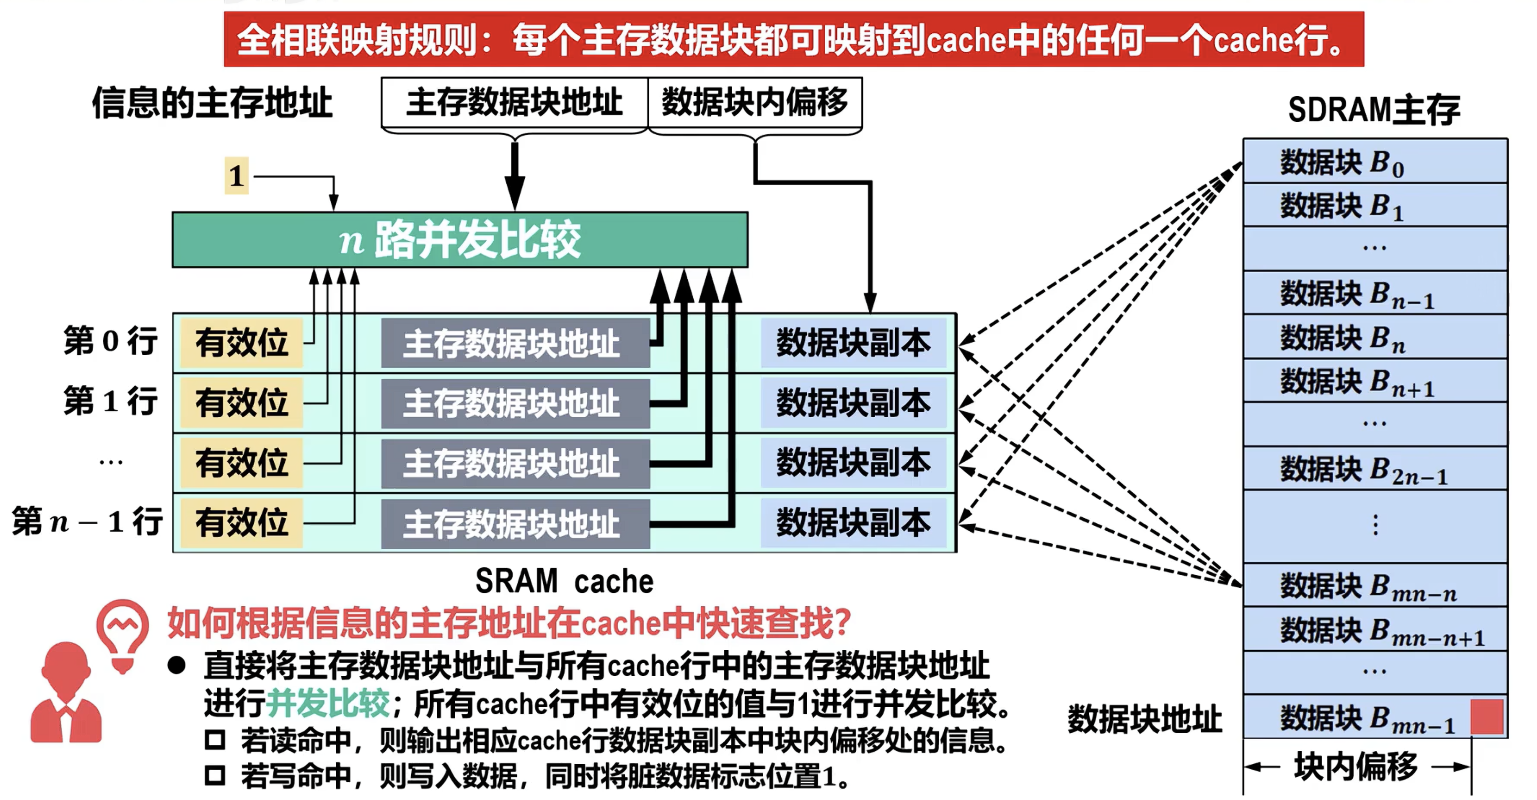
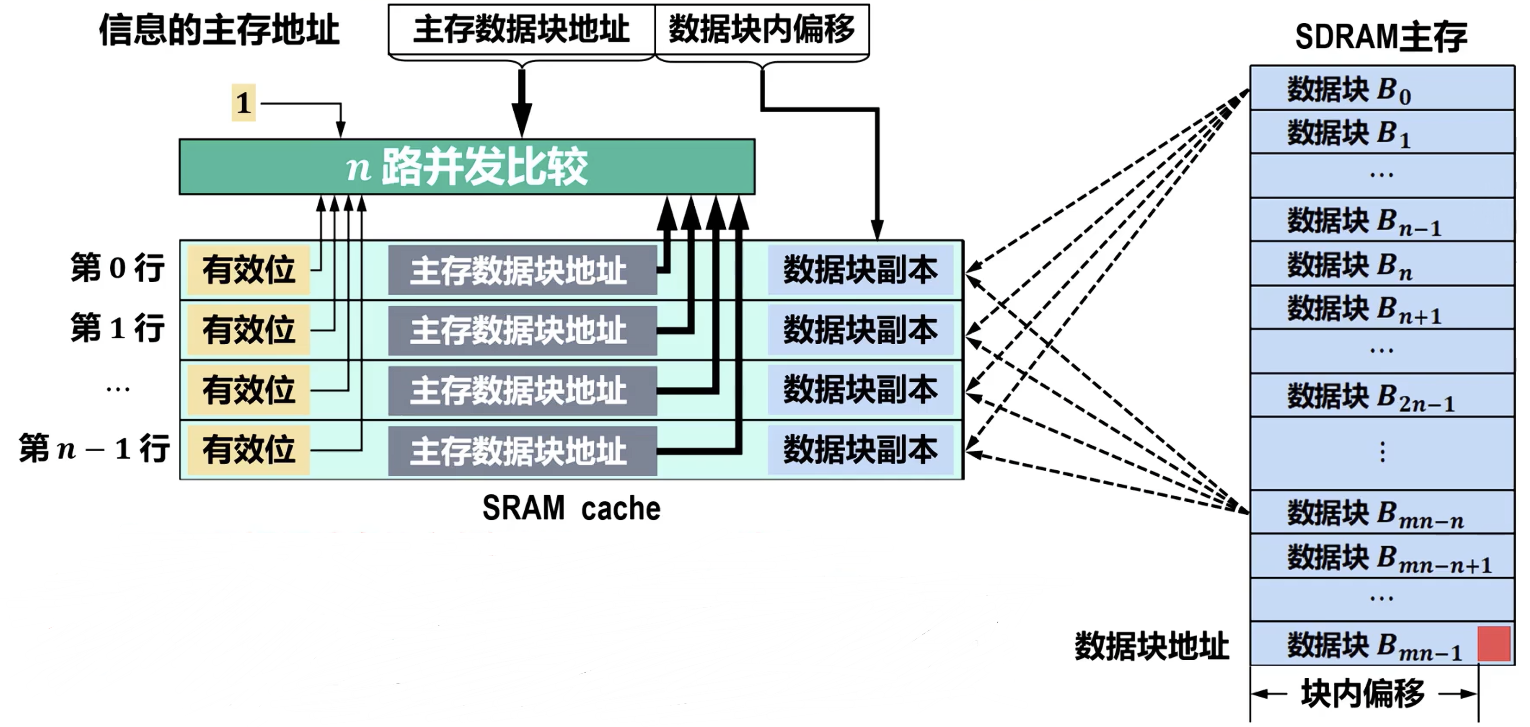
upd10.11

diff --git a/_posts/2025-10-8-408Arch.md b/_posts/2025-10-8-408Arch.md
@@ -220,14 +220,14 @@ _常见的多通道技术就是单体多字_
 
 - 高位多体交叉（顺序编址）
 
-![高位多体交叉](高位多体交叉.png){: .w-50}
+![高位多体交叉](高位多体交叉.png){: .w-75}
 _地址又称 体号+体内地址_
 
 高位多体的地址是连续的，本质上仍是顺序存储，同一个数据分布在同一个存储器内，没有实现并行工作，无法提高效率
 
 - 低位多体交叉（交叉编址）
 
-![低位多体交叉](低位多体交叉.png){: .w-50}
+![低位多体交叉](低位多体交叉.png){: .w-75}
 _地址又称 体内地址+体号_
 
 为提高顺序访问时存储模块的并行性，各存储模块均有独立的地址寄存器、数据寄存器和读写控制电路
@@ -247,7 +247,7 @@ _地址又称 体内地址+体号_
 ### Cache：概念
 
 ![cache分类](cache分类.png)
-_存在速度差异的地方都可以用到cache技术_
+_存在速度差异的地方都可以用到cache理念_
 
 #### ：程序局部性
 
@@ -302,19 +302,77 @@ cache被划分成等长的数据块，又称数据行，每行包含若干数据
 
 - 随机替换
 
-- 先进先出LIFO
+随机选择cache行替换
+
+硬件实现简单，速度最快
+
+没有考虑局部性特点，替换掉的数据可能又要重新载入，降低命中率和效率
+
+> 但随着cache容量增大，随机替换的负面影响会减小，实践中不弱于LFU和LRU
+
+- 先进先出FIFO
+
+替换最先载入的cache行
+
+需要记录每个cache行载入数据的时刻（时间戳）
+
+硬件实现较为简单
+
+没有考虑局部性，cache命中率不高
 
 - 最不常用LFU
 
+替换命中访问次数最少的cache行
+
+实现：为每个cache行设置一个淘汰计数器，载入新数据时该行清零，每命中访问一次，该行计数+1。需要进行替换时，替换计数最小的行
+
+每行都有计数器，硬件成本高
+
+不能较好反映近期的访问情况
+
 - 近期最少用LRU
+
+替换近期最少被命中的cache行
+
+> LRU实现：
+- 为每个cache行设置一个淘汰计数器
+- cache行被访问时，该行计数清零，其余*计数不为空*的行+1
+- 如果没有计数为空的行，替换计数最大的cache行
+{: .prompt-info}
+
+每行都有计数器，硬件成本高
+
+最好的反映了局部性
 
 #### ：写入策略
 
-- 写回法Write-Back
+CPU尝试写入某个主存地址时，若cache命中，则修改cache中的内容，导致cache与主存内容不一致，产生脏数据；因此有两种写入策略：写穿法和写回法
 
 - 写穿法Write-Through
 
+写cache**命中**时，同时写入cache和主存中的数据块
+
+因为主存访问很低，相比写回法，大大增加了写操作的开销，但保证了数据一致性，不产生脏数据
+
+- 写回法Write-Back
+
+写cache命中时，只修改cache行，而不写入主存；只有当cache行被替换时，才将脏数据写回主存
+
+需要为每个cache行配置一个dirty bit
+
+降低了写主存的次数，但存在安全隐患，导致DMA操作中出现数据不一致的问题（因为DMA传输不经过CPU，而是直达内存）
+
+> 对于目前的*多核CPU*和DMA外设，无论是否采用写穿法，都无法保证数据一致性，需要其他的同步机制
+
+CPU尝试写入某个主存地址时，若cache**未命中**，则有两种写入策略：
+
+- 写分配法：写入主存，然后写入cache，通常搭配写回法
+
+- 非写分配法：只将数据写入主存；通常搭配写穿法
+
 ### Cache：与主存的地址映射
+
+为实现对cache的访问，需要设计适当的地址映射方法，其中主要涉及到硬件成本，时间开销和命中率（工作效率）的取舍；关联度越低，命中率越低，硬件开销越小，额外空间开销越少
 
 #### ：直接映射
 
@@ -360,7 +418,57 @@ cache内直接存有主存地址\
 
 由于组相联仅需K路并发比较，硬件开销比全相联小很多，但实践中性能接近全相联
 
-### 虚拟内存
+### 虚拟存储：概念，页表
+
+> 虚拟存储是逻辑上将内存和外存合二为一，统一编址（虚拟地址VA），内存作为外存的缓存，因此与CPU中的cache类似，需要考虑交换数据块大小问题、地址映射问题、替换问题、一致性问题\
+针对这些问题，有页式、段式、段页式虚拟存储器的划分
+
+内存和外存间进行交换的数据单位为页，在虚拟地址空间中称为虚拟页、逻辑页，在主存地址空间中称为物理页、页框、页帧
+
+#### ：请求分页
+
+进程中的活跃页面载入主存，不活跃的页面保留在辅存
+
+![请求分页](请求分页.png){: .w-50}
+
+访问数据所在的页面时，若不存在主存中，发生缺页异常，将缺失的页面从辅存调入主存
+
+主存和辅存间的性能差异极大，缺页处理代价远大于cache缺失，因此，页面容量设置较大（通常4KB），采用全相联映射，写操作时采用写回法
+
+#### ：地址映射，页表
+
+页式虚拟存储采用全相联映射
+
+对于每个进程，都有一份页表（PT），用来记录虚拟地址与其所在主存或磁盘上物理地址的映射，以及相关标记信息，页表存储于主存内核区中
+
+采用虚拟存储的操作系统中，指令给出的是虚拟地址，由CPU内部的`MMU`将虚拟地址转换为物理地址，然后再到主存取指令和数据
+
+`页表基址寄存器PTBR`是CPU内的专用寄存器，用于记录所有页表头的主存地址。这样，切换进程时，同时切换PTBR的值，便可实现页表的切换
+
+- 页表的结构
+
+![页表](页表.png)
+
+1. 存放位置：Null表示空页
+2. 有效位：页表是否已调入主存
+3. 脏位：虚拟存储采用写回法；进行页面替换时，根据脏位，判断是否需要回写入辅存\
+磁盘的交换分区用于存放主存中替换出来的动态页面
+4. 替换控制位：类似cache的淘汰位，依替换策略不同
+5. 访问权限位：用于存储保护，确保进程不被非法访问
+6. 禁止缓存位：页面是否可以载入cache，确保数据一致性
+
+- 虚拟地址转换物理地址
+
+![页表地址映射](页表地址映射.png)
+_注意，地址中的虚拟页号为二进制，页表中的标号为十进制_
+
+虚拟页和物理页中的页内偏移值是相同的
+
+若有效位为0，则表示缺页，由操作系统调用缺页处理
+
+### 虚拟存储：快表
+
+### 虚拟存储：访问流程
 
 ## 指令
 
